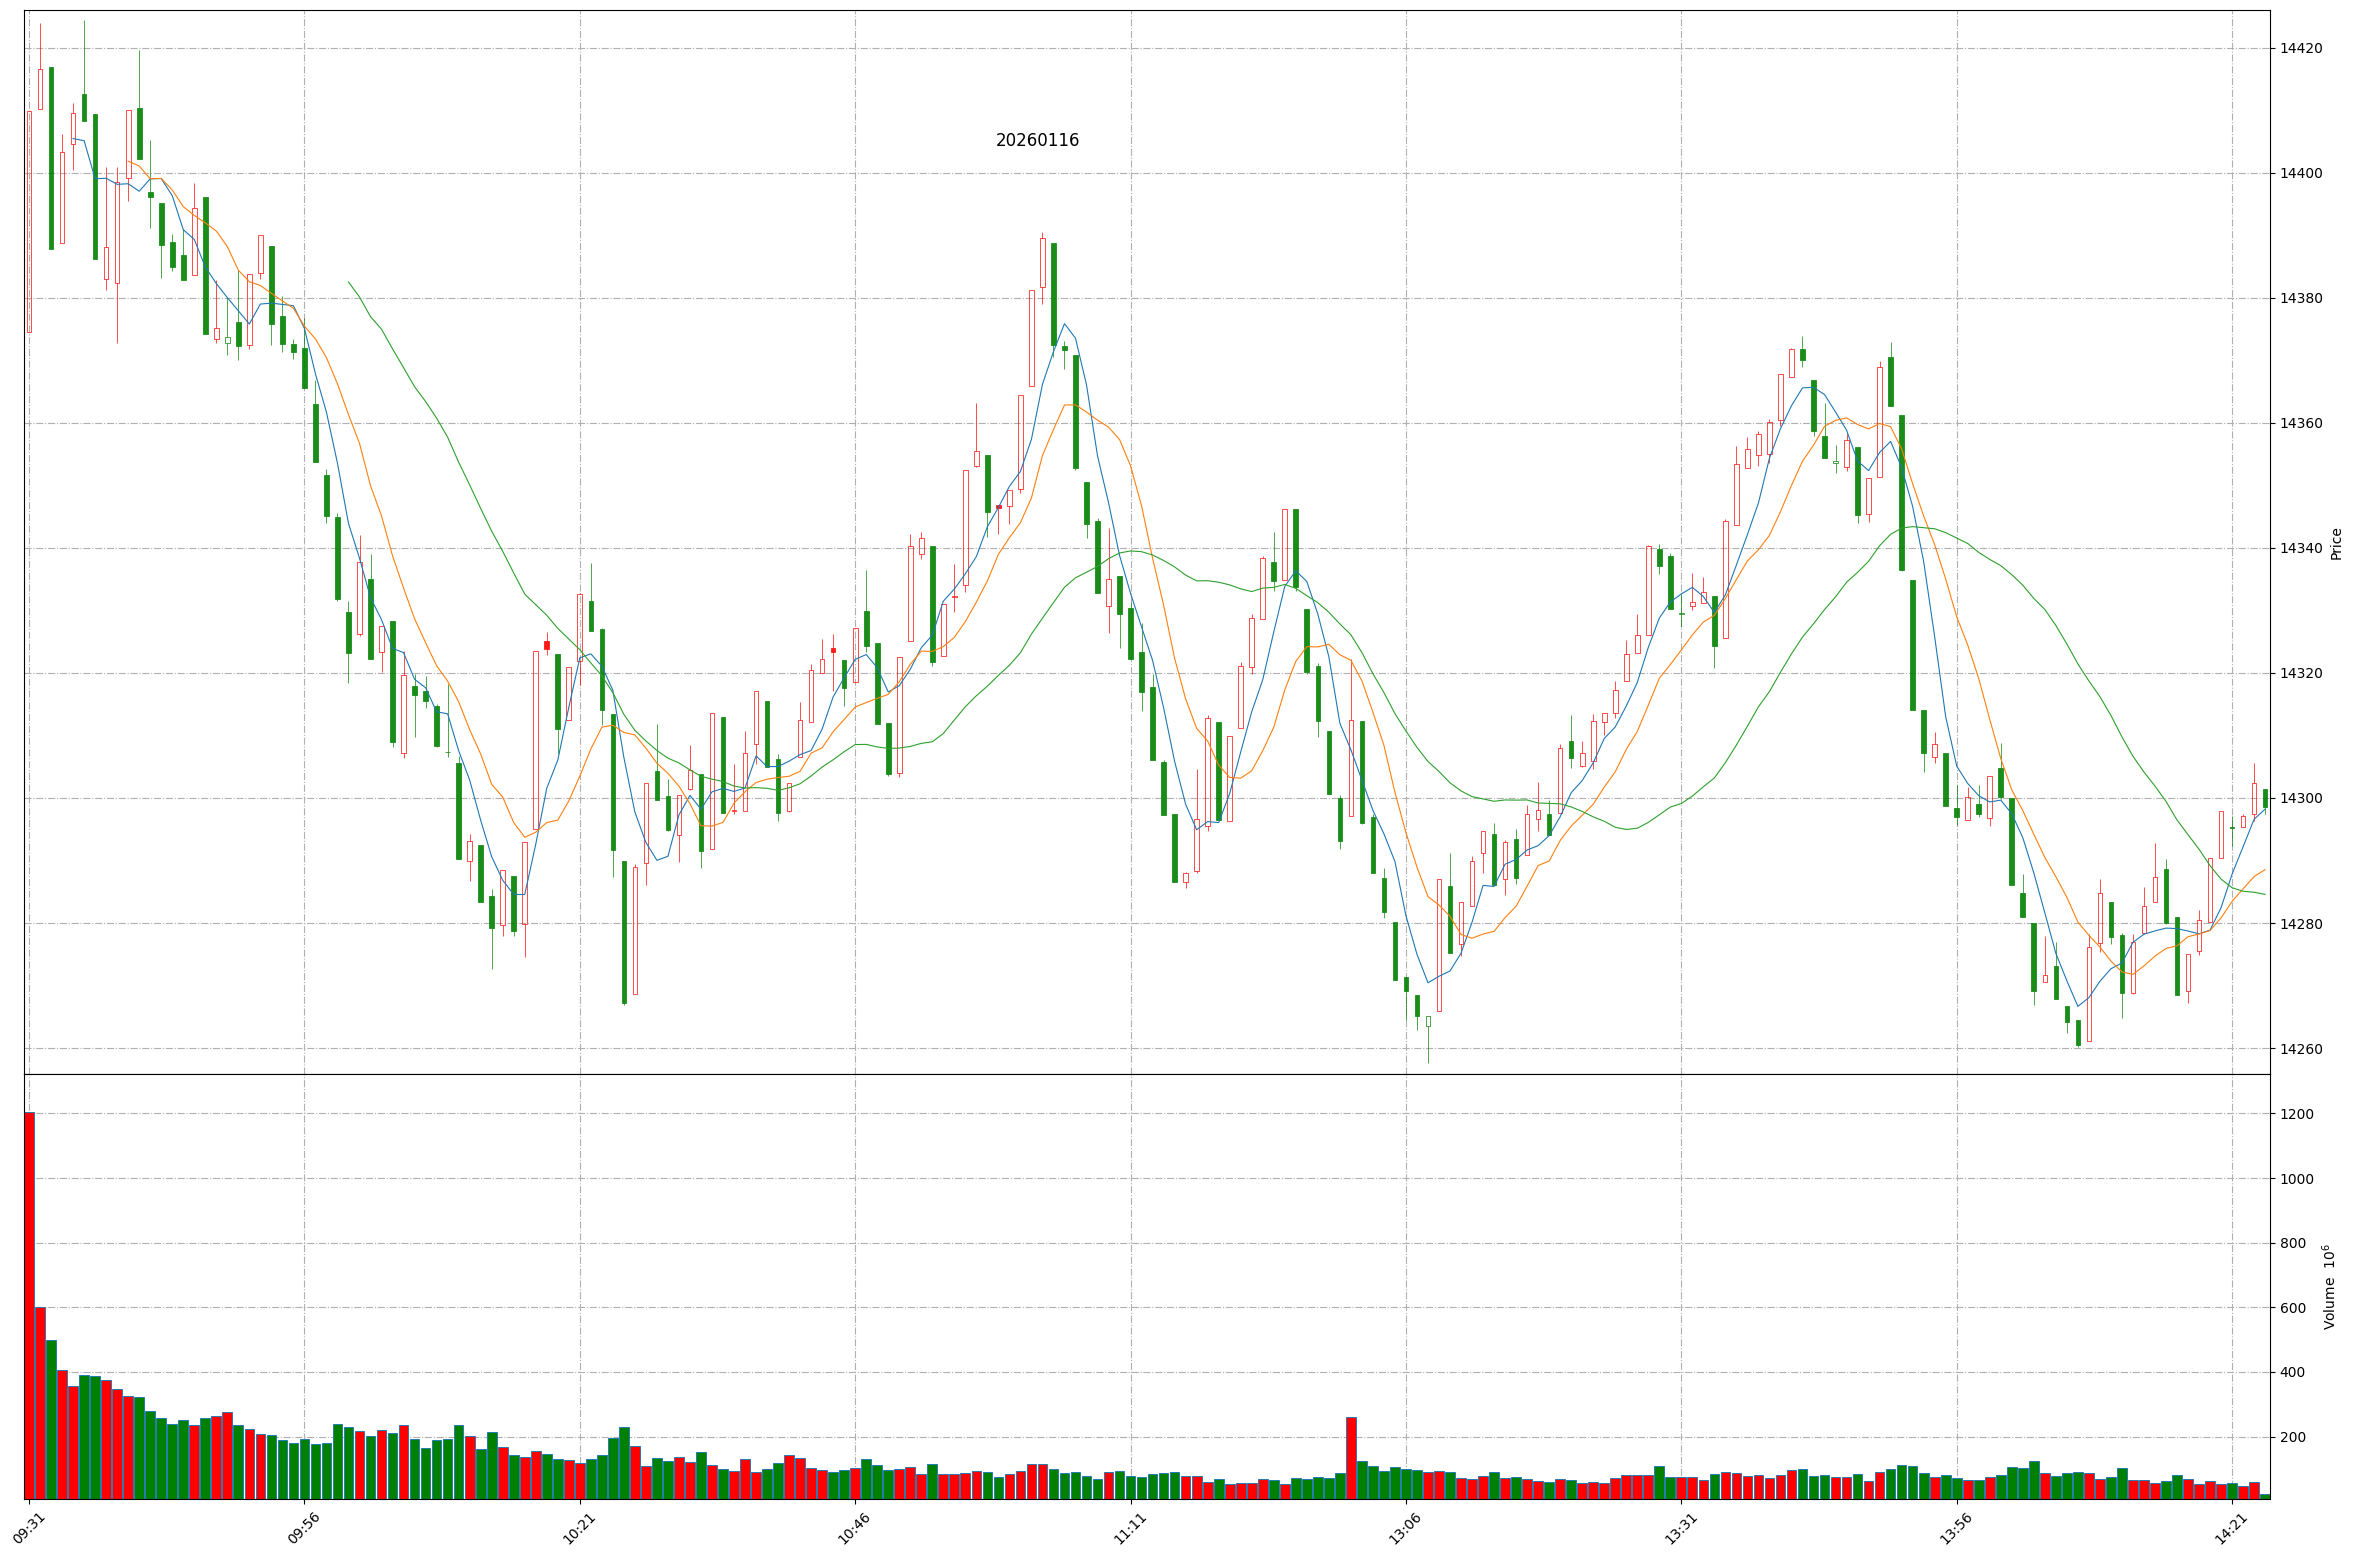
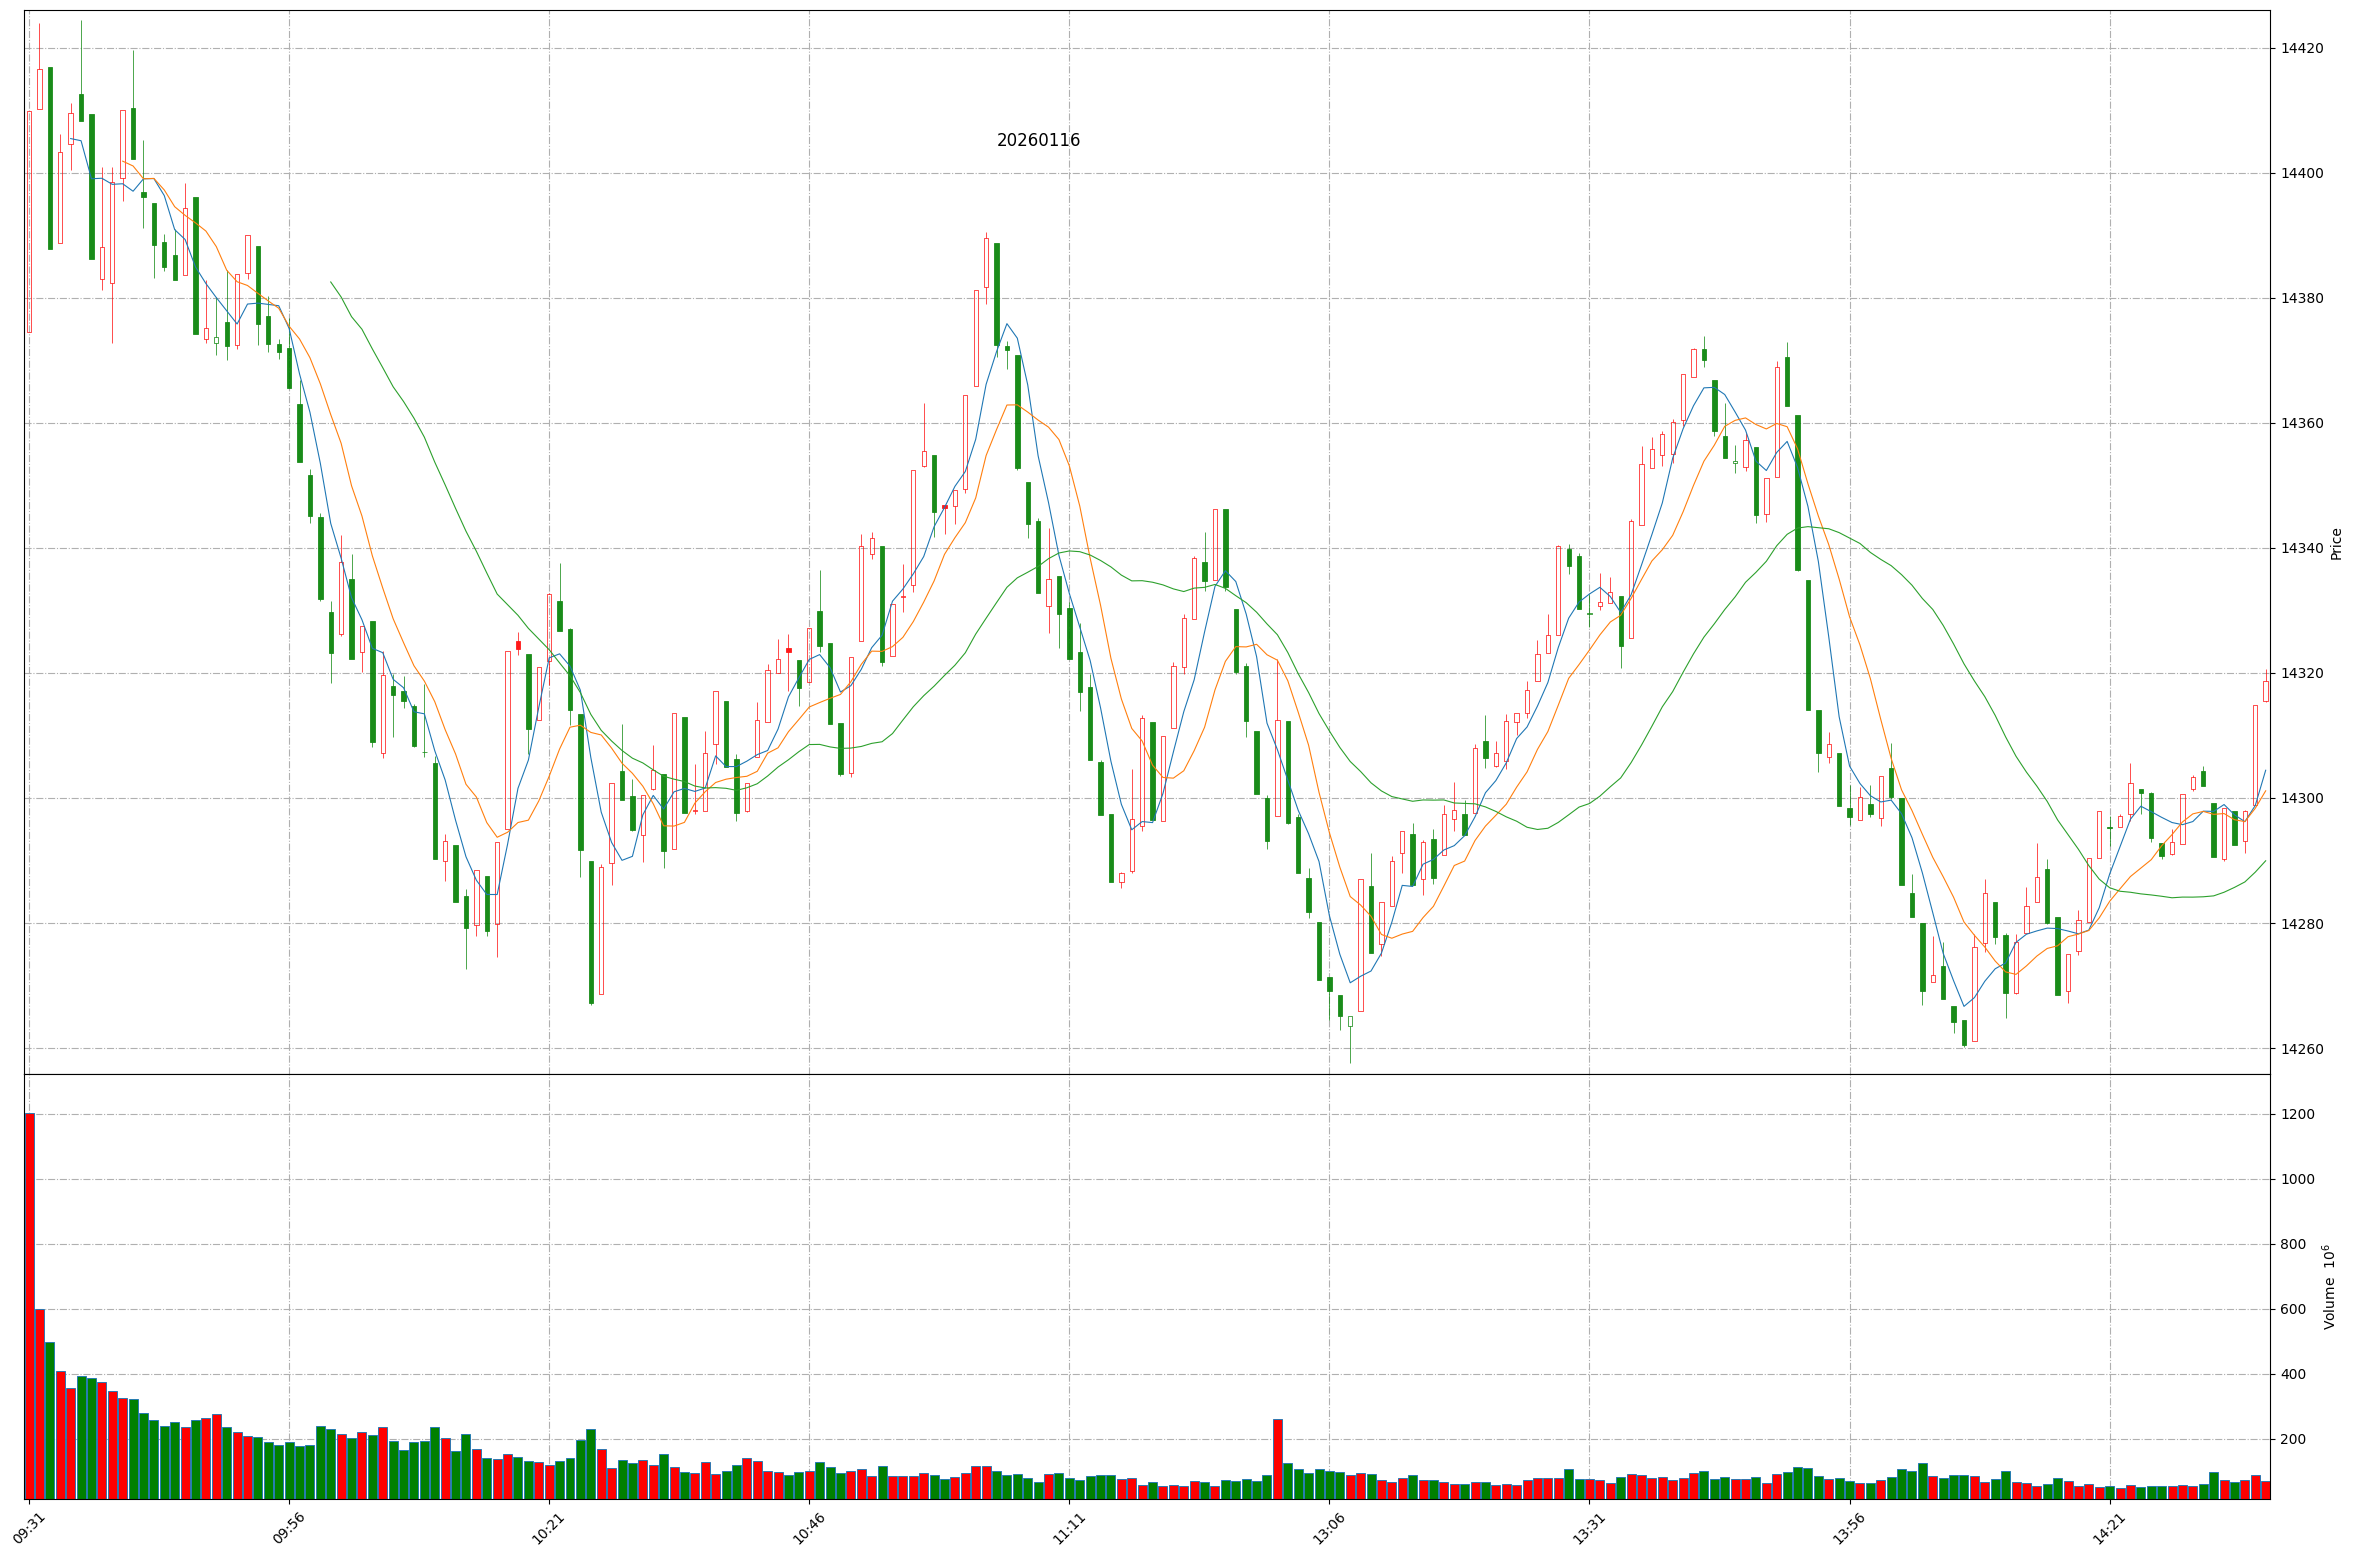
Github action update at 2026-01-16 14:36:08.

diff --git a/README.md b/README.md
@@ -1,11 +1,11 @@
 
 # Daily-A-share-market-quotes 每日 A 股指数（5min 更新）- 20260116
 
-### 上证指数 20260116 14:23
+### 上证指数 20260116 14:36
 ![](./fig/2026/1/20260116-sh000001.png)
 
-### 深证成指 20260116 14:23
+### 深证成指 20260116 14:36
 ![](./fig/2026/1/20260116-sz399001.png)
 
-### 北证50 20260116 14:23
+### 北证50 20260116 14:36
 ![](./fig/2026/1/20260116-bj899050.png)
